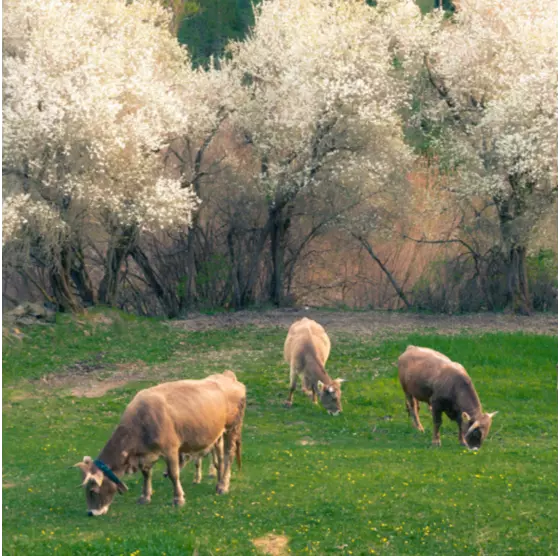
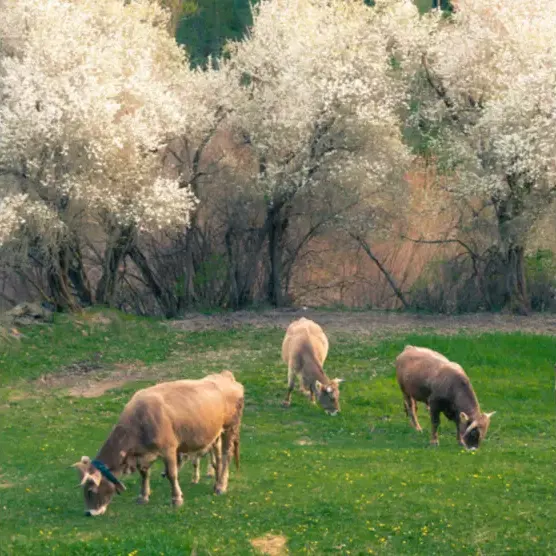
fix: Webp fallback

diff --git a/src/views/Home.vue b/src/views/Home.vue
@@ -37,7 +37,7 @@
       <div class="container grid grid--2 grid--center">
         <ul class="gallery gallery--one">
           <li v-for="i in 5" :key="i">
-            <img :src="`/images/gallery/${i}.webp`" class="rounded">
+            <webp-image :src="`/images/gallery/${i}`" class="rounded" />
           </li>
         </ul>
         <section id="ordino">
@@ -50,7 +50,7 @@
         </section>
         <ul class="gallery gallery--two">
           <li v-for="i in 5" :key="i">
-            <img :src="`/images/gallery/${i + 5}.webp`" class="rounded">
+            <webp-image :src="`/images/gallery/${i + 5}`" class="rounded" />
           </li>
         </ul>
       </div>
@@ -59,8 +59,8 @@
     <!-- Images Compare -->
     <image-compare
       id="ordino-compare"
-      before="/images/compare/before.webp"
-      after="/images/compare/after.webp">
+      before="/images/compare/before"
+      after="/images/compare/after">
       <template #before>
         <i18n-t tag="h2" keypath="home.compare.before">
           <template #em>
@@ -97,9 +97,7 @@
         <ul class="cards grid grid--3">
           <li v-for="task in tasks" :key="task" class="card">
             <header>
-              <figure class="cover rounded">
-                <img :src="`/images/${task}.webp`">
-              </figure>
+              <webp-image :src="`/images/${task}`" class="cover rounded" :alt="task" />
             </header>
             <h3>{{ t(`home.our_tasks.${task}.name`) }}</h3>
             <p>{{ t(`home.our_tasks.${task}.task`) }}</p>
@@ -156,7 +154,7 @@
           <p>{{ t('home.commission') }}</p>
           <p>{{ t('home.citizens') }}</p>
         </section>
-        <img src="/images/participation.webp" alt="Gestió" class="rounded">
+        <webp-image src="/images/participation" alt="Gestió" class="rounded" />
       </div>
     </article>
 
@@ -184,12 +182,13 @@ import { useI18n } from 'vue-i18n';
 import ImageCompare from '/@/components/ImageCompare.vue';
 import Scrollama from '/@/components/Scrollama.vue';
 import SlideMarquee from '/@/components/SlideMarquee.vue';
+import WebpImage from '/@/components/WebpImage.vue';
 import { home } from '/@/config.yaml';
 import api from '/@/api.service';
 
 export default {
   name: 'Home',
-  components: { ImageCompare, Scrollama, SlideMarquee },
+  components: { ImageCompare, Scrollama, SlideMarquee, WebpImage },
   setup() {
     const { t } = useI18n();
     const socialPhotos = ref([]);

diff --git a/src/views/Discover.vue b/src/views/Discover.vue
@@ -1,7 +1,7 @@
 <template>
   <div class="view-discover">
     <header class="hero">
-      <img src="/images/covers/discover.webp" class="cover">
+      <webp-image src="/images/covers/discover" class="cover" />
       <div class="container">
         <h1>{{ t('reserva_biosfera_ordino') }}</h1>
       </div>
@@ -22,7 +22,9 @@
               </a>
             </p>
           </section>
-          <div><img :src="scope.image"></div>
+          <div>
+            <webp-image :src="scope.image" />
+          </div>
         </div>
       </section>
 
@@ -39,7 +41,7 @@
 
     <!-- Activities -->
     <div class="hero">
-      <img src="/images/covers/activities.webp" class="cover">
+      <webp-image src="/images/covers/activities" class="cover" />
       <div class="container">
         <h2>{{ t('discover.activities.tagline') }}</h2>
         <p><a href="#" class="cta">{{ t('discover.activities.link') }}</a></p>
@@ -67,10 +69,12 @@
 
 <script>
 import { useI18n } from 'vue-i18n';
+import WebpImage from '/@/components/WebpImage.vue';
 import { discover } from '/@/config.yaml';
 
 export default {
   name: 'Discover',
+  components: { WebpImage },
   setup() {
     const { t } = useI18n();
     return { t, ...discover };
@@ -78,7 +82,7 @@ export default {
 };
 </script>
 
-<style lang="scss" scoped>
+<style lang="scss">
 #heritage {
   position: relative;
   overflow: hidden;

diff --git a/src/components/ImageCompare.vue b/src/components/ImageCompare.vue
@@ -6,11 +6,11 @@
     @mouseleave="unbindMouse"
     @touchmove="onMove">
     <div class="before">
-      <img :src="before">
+      <webp-image :src="before" class="cover" />
       <slot name="before" />
     </div>
     <div class="after">
-      <img :src="after">
+      <webp-image :src="after" class="cover" />
       <slot name="after" />
     </div>
   </div>
@@ -18,9 +18,11 @@
 
 <script>
 import { ref } from 'vue';
+import WebpImage from '/@/components/WebpImage.vue';
 
 export default {
   name: 'ImageCompare',
+  components: { WebpImage },
   props: {
     before: { type: String, required: true },
     after: { type: String, required: true },
@@ -61,7 +63,6 @@ export default {
     left: 0;
     width: 100%;
     height: 100%;
-    object-fit: cover;
     user-select: none;
 
     img {

diff --git a/src/views/Projects.vue b/src/views/Projects.vue
@@ -1,7 +1,7 @@
 <template>
   <div class="view-projects">
     <header class="hero">
-      <img src="/images/covers/projects.webp" class="cover">
+      <webp-image src="/images/covers/projects" class="cover" />
       <div class="container">
         <h1>{{ t('projects.tagline') }}</h1>
       </div>
@@ -39,12 +39,14 @@
 <script>
 import { ref, computed, onMounted } from 'vue';
 import { useI18n } from 'vue-i18n';
+import WebpImage from '/@/components/WebpImage.vue';
 import api from '/@/api.service';
 
 const DEFAULT_VISIBLE_PROJECTS = 4;
 
 export default {
   name: 'Projects',
+  components: { WebpImage },
   setup() {
     const { t, locale } = useI18n();
     const projects = ref([]);

diff --git a/src/components/WebpImage.vue b/src/components/WebpImage.vue
@@ -1,0 +1,18 @@
+<template>
+  <picture>
+    <source :srcset="`${src}.webp`" v-bind="$attrs" type="image/webp">
+    <source :srcset="`${src}.${fallback}`" v-bind="$attrs" :type="`image/${fallback}`">
+    <img v-bind="$attrs" :src="`${src}.${fallback}`">
+  </picture>
+</template>
+
+<script>
+export default {
+  name: 'WebpImage',
+  inheritAttrs: false,
+  props: {
+    src: { type: String, required: true },
+    fallback: { type: String, default: 'jpg' },
+  },
+};
+</script>
